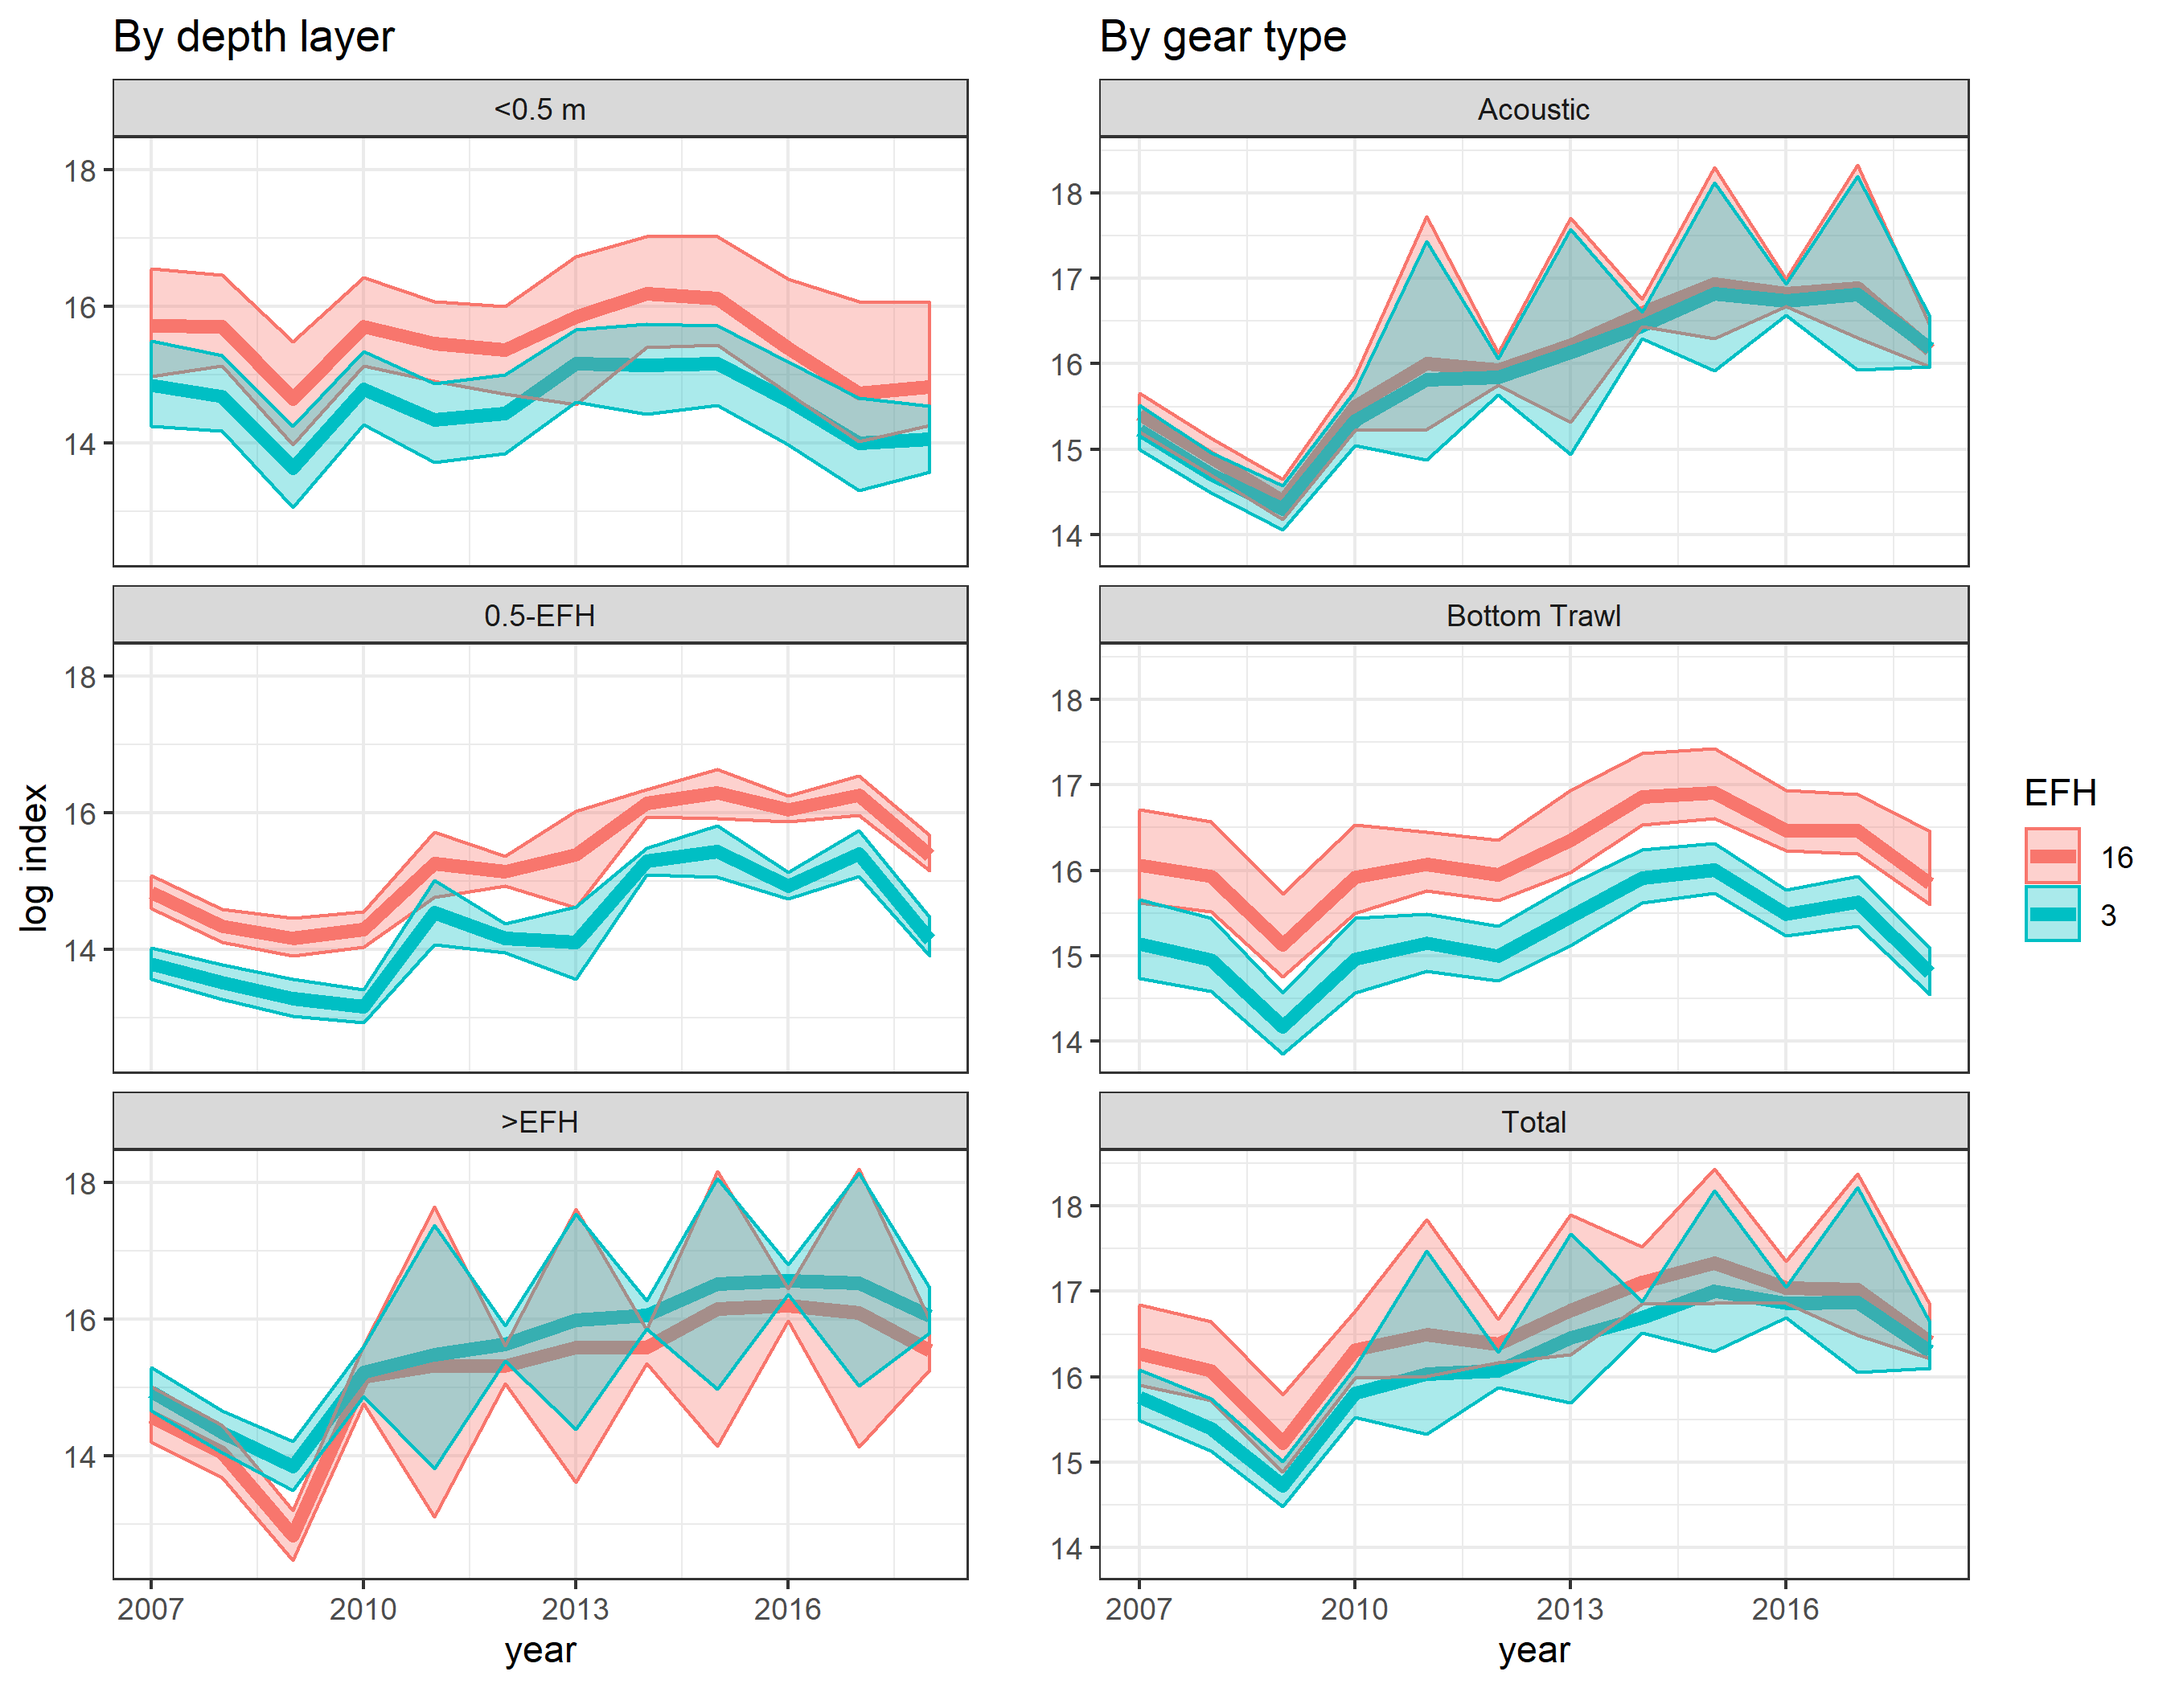
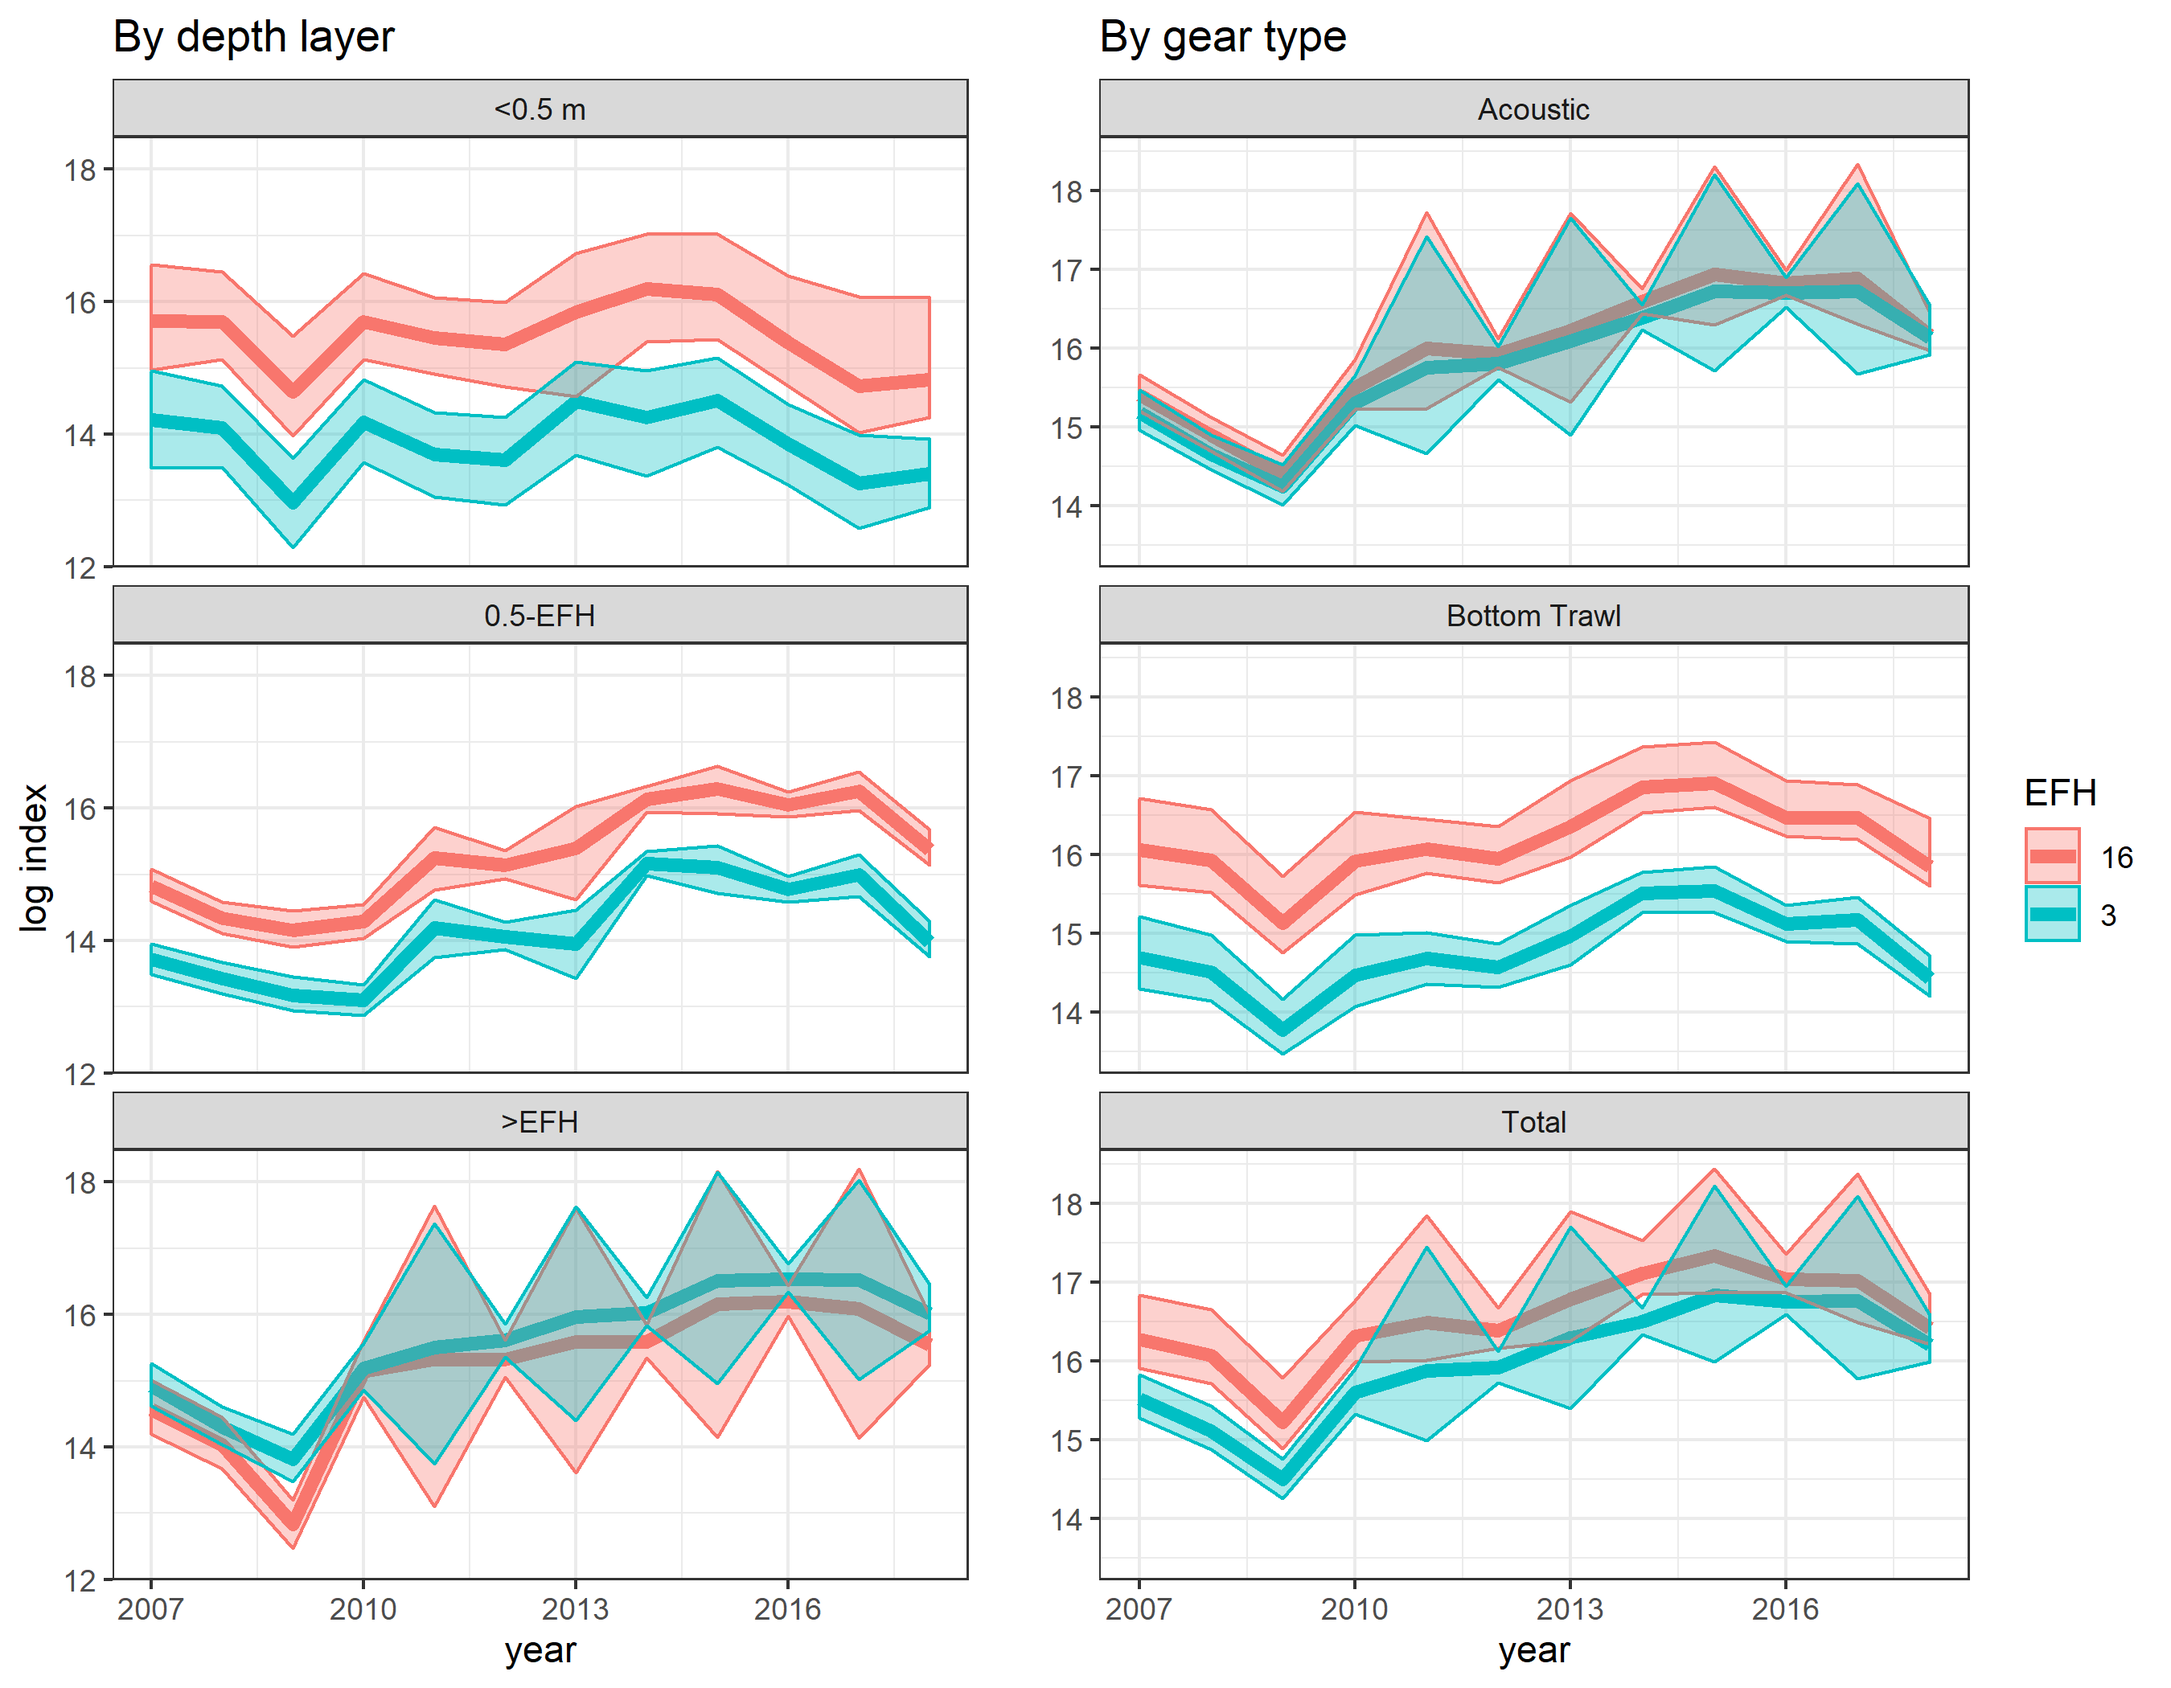
Try looser prior on lambda

diff --git a/models/VAST_v8_0_0.cpp b/models/VAST_v8_0_0.cpp
@@ -1472,8 +1472,10 @@ Type objective_function<Type>::operator() ()
   jnll = jnll_comp.sum();
   // Cole added priors here, specific to pollock example
   Type prior=0.0;
-  prior -= dnorm(lambda1_k, Type(0.0), Type(.15), true).sum();
-  prior -= dnorm(lambda2_k, Type(0.0), Type(.15), true).sum();
+  prior -= dnorm(lambda1_k, Type(0.0), Type(1), true).sum();
+  prior -= dnorm(lambda2_k, Type(0.0), Type(1), true).sum();
+  // prior -= dnorm(lambda1_k, Type(0.0), Type(.15), true).sum();
+  // prior -= dnorm(lambda2_k, Type(0.0), Type(.15), true).sum();
   for(int ccc=0; ccc<n_c; ccc++){ // loop over categories 
     for(int ppp=0; ppp<n_p; ppp++){ // loop over covariates
       prior-=dnorm(gamma1_ctp(ccc,1,ppp), Type(0.0), Type(5.0), true);
